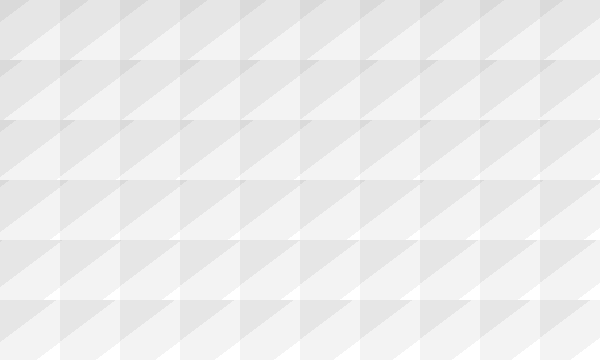
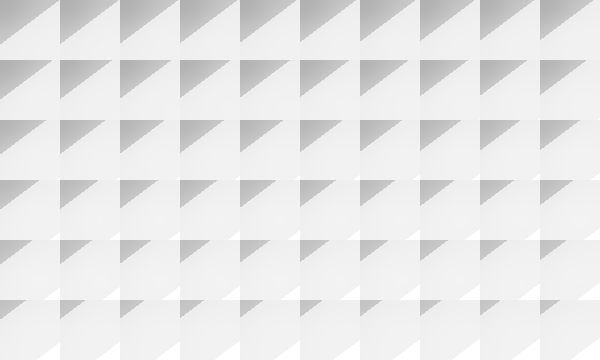
More palette rework.

diff --git a/internal/menu/settings.go b/internal/menu/settings.go
@@ -22,6 +22,7 @@ import (
 	"github.com/divVerent/aaaaxy/internal/flag"
 	"github.com/divVerent/aaaaxy/internal/font"
 	"github.com/divVerent/aaaaxy/internal/input"
+	"github.com/divVerent/aaaaxy/internal/log"
 	m "github.com/divVerent/aaaaxy/internal/math"
 	"github.com/divVerent/aaaaxy/internal/palette"
 )
@@ -40,172 +41,154 @@ const (
 )
 
 type SettingsScreen struct {
-	Controller           *Controller
-	Item                 SettingsScreenItem
-	PaletteUnlockCounter int
+	Controller      *Controller
+	Item            SettingsScreenItem
+	CurrentGraphics graphicsSetting
 }
 
 func (s *SettingsScreen) Init(m *Controller) error {
 	s.Controller = m
-	s.PaletteUnlockCounter = 6 // Hit right 7 times to hit advanced palettes.
-	if currentGraphics() >= graphicsSettingsNormalCount {
-		s.PaletteUnlockCounter = 0
-	}
+	s.CurrentGraphics = currentGraphics()
 	return nil
 }
 
 type graphicsSetting int
 
-const (
-	herculesGraphics graphicsSetting = iota
-	cgaGraphics
-	egaGraphics
-	vgaGraphics
-	svgaGraphics
-	atariSTGraphics
-	c64Graphics
-	cgaNTSCGraphics
-	egaLowGraphics
-	gameboyGraphics
-	macIIGraphics
-	nesGraphics
-	quakeGraphics
-	xtermGraphics
-	graphicsSettingsTotalCount
+type graphicsSettingData struct {
+	palette string
+	name    string
+}
 
-	// Normally only go up to SVGA.
-	graphicsSettingsNormalCount = svgaGraphics + 1
-)
+var graphicsSettings = []graphicsSettingData{
+	{"mono", "Hercules"},
+	{"egamono", "EGA (monochrome)"},
+	{"cga41l", "CGA"},
+	{"ega", "EGA"},
+	{"vga", "VGA"},
+	{"none", "SVGA"},
+	{"none", "SVGA"},
+	{"none", "SVGA"},
+	{"none", "SVGA"},
+	{"none", "SVGA"},
+	{"none", "SVGA"},
+	{"none", "SVGA"},
+	{"atarist", "Atari ST"},
+	{"c64", "C64"},
+	{"cga40n", "CGA (NTSC)"},
+	{"gb", "Gameboy"},
+	{"intellivision", "Intellivision"},
+	{"macii", "Mac II"},
+	{"msx", "MSX"},
+	{"nes", "NES"},
+	{"quake", "Quake"},
+	{"web", "Web"},
+	{"xterm", "XTerm"},
+	{"3x3x3", "3x3x3"},
+	{"4x4x4", "4x4x4"},
+	{"7x7x4", "7x7x4"},
+	{"8x8x4", "8x8x4"},
+	{"8x8x4", "8x8x4"},
+	{"8x8x4", "8x8x4"},
+	{"8x8x4", "8x8x4"},
+	{"8x8x4", "8x8x4"},
+	{"8x8x4", "8x8x4"},
+	{"8x8x4", "8x8x4"},
+	{"ua3", "Ukrainian"},
+}
+
+func init() {
+	// Skip intentionally unused palettes.
+	intentionallyUnused := map[string]bool{
+		// Redundant, do not offer in menu.
+		"cga40h": true,
+		"cga40l": true,
+		"cga41h": true,
+		"cga41n": true,
+		"cga5h":  true,
+		"cga5l":  true,
+		"cga6n":  true,
+		"div0":   true,
+		// Very low quality, do not offer in menu.
+		"2x2x2":      true,
+		"atarist4":   true,
+		"cmyk":       true,
+		"egalow":     true,
+		"rgb":        true,
+		"smb":        true,
+		"vgadefault": true,
+		// Country flags.
+		"de3": true,
+		"us4": true,
+	}
+
+	used := make(map[string]bool, len(graphicsSettings))
+	for _, s := range graphicsSettings {
+		if s.palette == "none" {
+			continue
+		}
+		if intentionallyUnused[s.palette] {
+			log.Fatalf("used intentionally unused graphics setting: %v", s.palette)
+		}
+		used[s.palette] = true
+		if palette.ByName(s.palette) == nil {
+			log.Fatalf("undefined graphics setting: %v", s.palette)
+		}
+	}
+
+	var unused []string
+	for _, name := range palette.Names() {
+		if !used[name] && !intentionallyUnused[name] {
+			unused = append(unused, name)
+		}
+	}
+	if len(unused) != 0 {
+		log.Fatalf("unused palette settings: %v", unused)
+	}
+}
 
 func (s graphicsSetting) String() string {
-	switch s {
-	case herculesGraphics:
-		return "Hercules" // Mostly Hercules, that is (2 more scan lines; who cares).
-	case cgaGraphics:
-		return "CGA" // Actually, it takes four CGA cards (or two Tandy) to render 640x360 in 4 colors.
-	case egaGraphics:
-		return "EGA" // Mostly EGA, that is (10 more scan lines; this probably can be hacked on real EGA though).
-	case vgaGraphics:
-		return "VGA"
-	case svgaGraphics:
-		return "SVGA"
-	case atariSTGraphics:
-		return "Atari ST"
-	case c64Graphics:
-		return "C64"
-	case cgaNTSCGraphics:
-		return "CGA (NTSC)"
-	case egaLowGraphics:
-		return "EGA Low Intensity"
-	case gameboyGraphics:
-		return "Gameboy"
-	case macIIGraphics:
-		return "Mac II"
-	case nesGraphics:
-		return "NES"
-	case quakeGraphics:
-		return "Quake"
-	case xtermGraphics:
-		return "XTerm"
-	}
-	return "???"
+	return graphicsSettings[s].name
 }
 
 func currentGraphics() graphicsSetting {
 	pal := flag.Get("palette").(string)
-	switch pal {
-	case "mono":
-		return herculesGraphics
-	case "cga41l":
-		return cgaGraphics
-	case "ega":
-		return egaGraphics
-	case "vga":
-		return vgaGraphics
-	case "none":
-		return svgaGraphics
-	case "atarist":
-		return atariSTGraphics
-	case "c64":
-		return c64Graphics
-	case "cga40n":
-		return cgaNTSCGraphics
-	case "egalow":
-		return egaLowGraphics
-	case "gb":
-		return gameboyGraphics
-	case "macii":
-		return macIIGraphics
-	case "nes":
-		return nesGraphics
-	case "quake":
-		return quakeGraphics
-	case "xterm":
-		return xtermGraphics
+	for i, s := range graphicsSettings {
+		if s.palette == pal {
+			return graphicsSetting(i)
+		}
 	}
-	return svgaGraphics
+	for i, s := range graphicsSettings {
+		if s.palette == "none" {
+			return graphicsSetting(i)
+		}
+	}
+	return 0
 }
 
 func (s graphicsSetting) apply() error {
-	switch s {
-	case herculesGraphics:
-		flag.Set("palette", "mono")
-	case cgaGraphics:
-		flag.Set("palette", "cga41l")
-	case egaGraphics:
-		flag.Set("palette", "ega")
-	case vgaGraphics:
-		flag.Set("palette", "vga")
-	case svgaGraphics:
-		flag.Set("palette", "none")
-	case atariSTGraphics:
-		flag.Set("palette", "atarist")
-	case c64Graphics:
-		flag.Set("palette", "c64")
-	case cgaNTSCGraphics:
-		flag.Set("palette", "cga40n")
-	case egaLowGraphics:
-		flag.Set("palette", "egalow")
-	case gameboyGraphics:
-		flag.Set("palette", "gb")
-	case macIIGraphics:
-		flag.Set("palette", "macii")
-	case nesGraphics:
-		flag.Set("palette", "nes")
-	case quakeGraphics:
-		flag.Set("palette", "quake")
-	case xtermGraphics:
-		flag.Set("palette", "xterm")
-	}
+	flag.Set("palette", graphicsSettings[s].palette)
 	return nil
 }
 
 func (s *SettingsScreen) toggleGraphics(delta int) error {
-	g := currentGraphics()
-	count := graphicsSettingsNormalCount
-	if s.PaletteUnlockCounter == 0 {
-		count = graphicsSettingsTotalCount
-	}
+	count := graphicsSetting(len(graphicsSettings))
 	switch delta {
 	case 0:
-		g++
-		if g >= count {
-			g = 0
+		s.CurrentGraphics++
+		if s.CurrentGraphics >= count {
+			s.CurrentGraphics = 0
 		}
 	case -1:
-		if g > 0 {
-			g--
+		if s.CurrentGraphics > 0 {
+			s.CurrentGraphics--
 		}
 	case +1:
-		g++
-		if g >= count {
-			if s.PaletteUnlockCounter > 0 {
-				s.PaletteUnlockCounter--
-			}
-			g--
+		s.CurrentGraphics++
+		if s.CurrentGraphics >= count {
+			s.CurrentGraphics--
 		}
 	}
-	g.apply()
+	s.CurrentGraphics.apply()
 	return nil
 }
 

diff --git a/internal/aaaaxy/game.go b/internal/aaaaxy/game.go
@@ -20,6 +20,7 @@ import (
 	go_image "image"
 	"math"
 	"math/rand"
+	"strings"
 
 	"github.com/hajimehoshi/ebiten/v2"
 
@@ -52,7 +53,7 @@ var (
 	screenFilterScanLines     = flag.Float64("screen_filter_scan_lines", 0.1, "strength of the scan line effect in the linear2xcrt filters")
 	screenFilterCRTStrength   = flag.Float64("screen_filter_crt_strength", 0.5, "strength of CRT deformation in the linear2xcrt filters")
 	screenFilterJitter        = flag.Float64("screen_filter_jitter", 0.0, "for any filter other than simple, amount of jitter to add to the filter")
-	paletteFlag               = flag.String("palette", "vga", "render with palette (slow, ugly, fun); can be set to "+palette.Names()+" or 'none'")
+	paletteFlag               = flag.String("palette", "vga", "render with palette (slow, ugly, fun); can be set to '"+strings.Join(palette.Names(), "', '")+"' or 'none'")
 	paletteRemapOnly          = flag.Bool("palette_remap_only", false, "only apply the palette's color remapping, do not actually reduce color set")
 	paletteRemapColors        = flag.Bool("palette_remap_colors", true, "remap input colors to close palette colors on load (less dither but wrong colors)")
 	paletteDitherSize         = flag.Int("palette_dither_size", 4, "dither pattern size (really should be a power of two when using the bayer dither mode)")

diff --git a/internal/palette/data.go b/internal/palette/data.go
@@ -16,6 +16,8 @@ package palette
 
 // data contains all palettes by name.
 var data = map[string]*Palette{
+	// This list should be kept in sync with the list in internal/menu/settings.go.
+
 	// Monochrome.
 	"mono": newPalette([]int{0, 15}, []uint32{
 		0x000000,
@@ -139,6 +141,8 @@ var data = map[string]*Palette{
 	// The original IBM EGA palette.
 	"ega": newPalette([]int{0, 1, 2, 3, 4, 5, 6, 7, 8, 9, 10, 11, 12, 13, 14, 15}, egaColors[:]),
 
+	// Palettes NOT in the menu follow here.
+
 	// EGA but only the colors 0 to 7.
 	"egalow": newPalette([]int{0, 1, 2, 3, 4, 5, 6, 7}, []uint32{
 		0x000000,
@@ -151,11 +155,10 @@ var data = map[string]*Palette{
 		0xAAAAAA,
 	}),
 
-	// EGA but only the grey tones.
-	"egamono": newPalette([]int{0, 7, 8, 15}, []uint32{
+	// EGA on monochrome monitor.
+	"egamono": newPalette([]int{0, 7, 15}, []uint32{
 		0x000000,
 		0xAAAAAA,
-		0x555555,
 		0xFFFFFF,
 	}),
 
@@ -989,14 +992,6 @@ var data = map[string]*Palette{
 		0xFFFFFF,
 		0xB22234,
 		0x3C3B6E,
-	}),
-
-	// Another flag.
-	"ru4": newPalette([]int{0, 15, 1, 12}, []uint32{
-		0x000000,
-		0xFFFFFF,
-		0x0032A0,
-		0xDA291C,
 	}),
 }
 

diff --git a/internal/palette/palette.go b/internal/palette/palette.go
@@ -16,7 +16,6 @@ package palette
 
 import (
 	"sort"
-	"strings"
 )
 
 // Palette encapsulates a color palette.
@@ -87,13 +86,13 @@ func newPalette(egaIndices []int, c0 []uint32) *Palette {
 }
 
 // Names returns the names of all palettes, in quoted comma separated for, for inclusion in a flag description.
-func Names() string {
+func Names() []string {
 	l := make([]string, 0, len(data))
 	for p := range data {
 		l = append(l, p)
 	}
 	sort.Strings(l)
-	return "'" + strings.Join(l, "', '") + "'"
+	return l
 }
 
 // ByName returns the PalData for the given palette. Do not modify the returned object.
